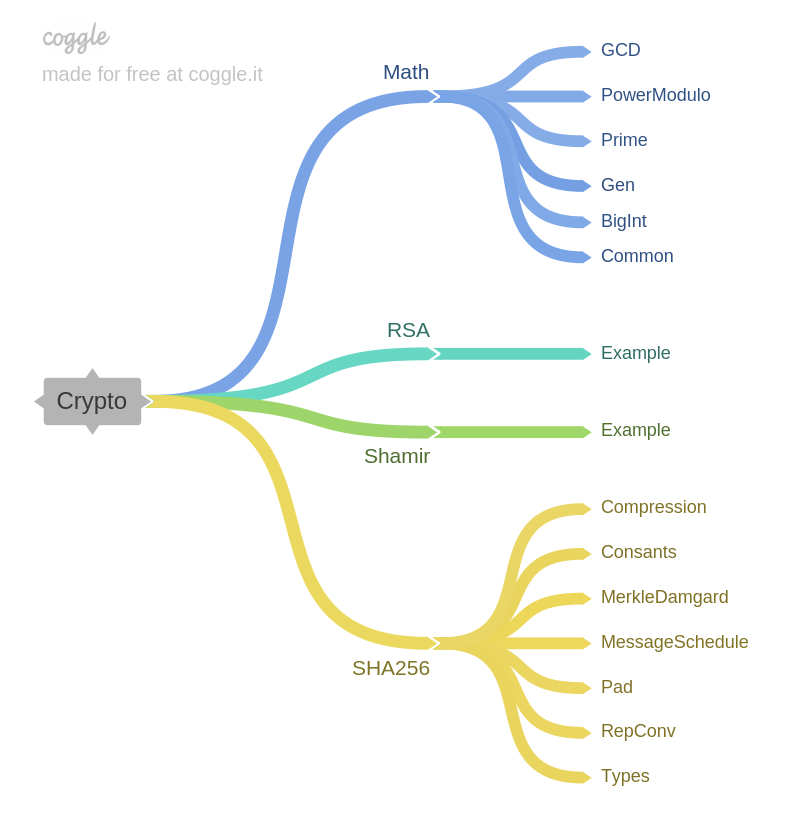
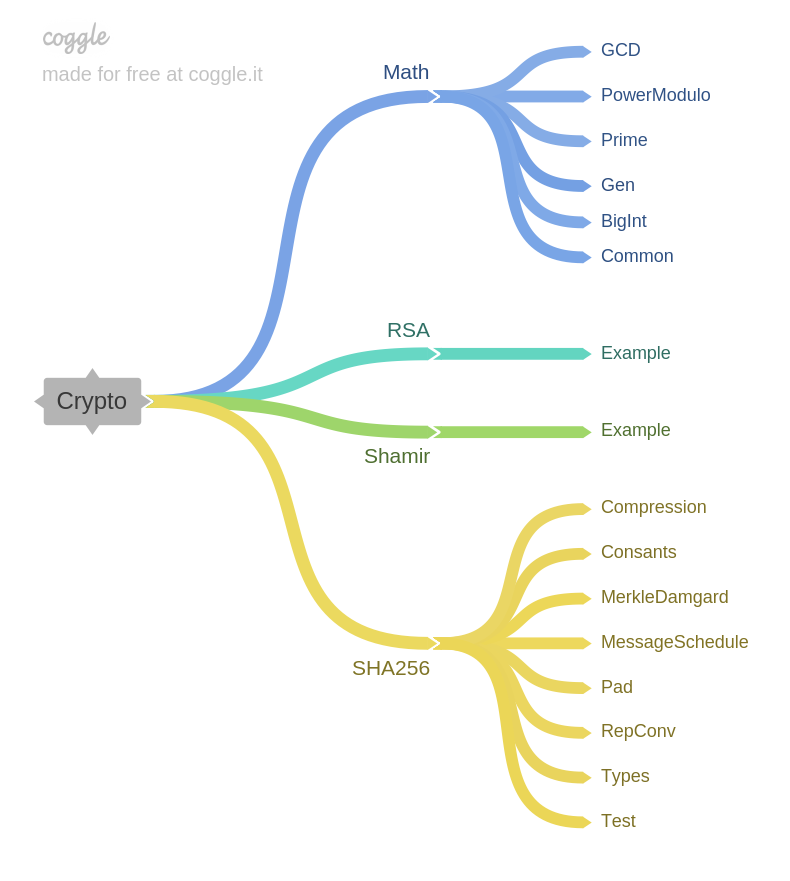
Update README and image

Changed region(s): [[0.0304, 0.0311, 0.9418, 0.9641], [0.0608, 0.0311, 0.3342, 0.0933]]

diff --git a/README.md b/README.md
@@ -1,7 +1,7 @@
 
 # Crypto
 
-Textbook implementations of cryptographic algorithms in Haskell, just for fun!
+Textbook implementations of cryptographic algorithms in Haskell, just for fun! I have implemented textbook RSA, Shamir's Secret Sharing Scheme and SHA256.
 
 ## How to run
 
@@ -46,5 +46,5 @@ The minor modules are
 - `MessageSchedule` List for the message schedule array.
 - `Pad` Padding for the pre-processing.
 - `RepConv` Converting between different representations of words and lists of words.
-- `Test` Comparsion between this implementation and a library function.
 - `Types` Synonyms for types used by the different functions.
+- `Test` Comparsion between this implementation and a library function. This module requires the package `Crypto.Hash.SHA256` which can be installed with `cabal install cryptohash`.
